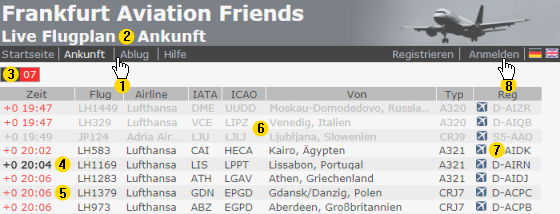
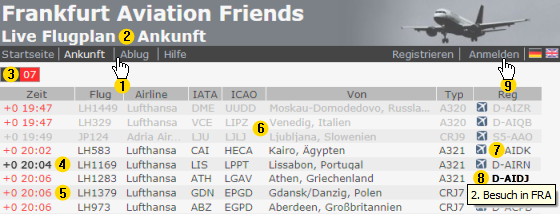
Added VTF to help page.

Changed region(s): [[0.8196, 0.785, 1.0, 0.9813], [0.8804, 0.3925, 0.9107, 0.4206]]

diff --git a/content/help-de.php b/content/help-de.php
@@ -39,7 +39,7 @@ $lang_help = array(
 	13 => '(5) Zeiten für verfrühte Flüge werden in rot angezeigt',
 	14 => '(6) Flüge in der Vergangenheit werden ausgegraut angezeigt',
 	15 => '(7) Flugzeugkennungen sind mit <a href="http://www.airliners.net">www.airliners.net</a> verlinkt (auf Symbol links davon klicken)',
-	16 => '(8) Registrieren/Anmelden, um die <span class="bi">Beobachtungsliste</span> nutzen zu können',
+	16 => '(9) Registrieren/Anmelden, um die <span class="bi">Beobachtungsliste</span> nutzen zu können',
 	17 => '(1) Besondere Flugzeuge können in grün hervorgehoben werden. Eine Liste davon  - inklusive einem Kommentar je Kennung - kann im Benutzerprofil gespeichert werden',
 	18 => '(2) Auf den Reiter oder den Link in der Navigationsleiste klicken, damit die Beobachtungsliste geöffnet wird. Diese Liste kann nach Belieben bearbeitet werden',
 	19 => '<span class="b">Um die Beobachtungsliste benutzen zu können, muß <span class="i"><a href="http://www.enable-javascript.com/de/">JavaScript aktiviert</a></span> sein.</span>',
@@ -49,13 +49,13 @@ $lang_help = array(
 	23 => '(3) Aktualisieren speichert aktuelle Listeneinträge',
 	24 => 'Im Tabellenkopf auf eine Spalte klicken, um nach dieser zu sortieren',
 	25 => 'Bei aktiver Beobachtungsliste (Anmelden erforderlich) werden die markierten Flugzeuge zuoberst sortiert',
-//	26 => 'Für die ordentliche Unterstützung mobiler Endgeräte gibt es noch einiges zu tun. Sorry. Unterstützung für spezielle Geräte/Browser kann jederzeit unter <a href="content/emil.php?subject=FRA-schedule%20Anfrage"><img alt="email" src="content/emil-img.php" style="vertical-align: bottom;"></a> angefragt</a> werden',
-	26 => 'Mobile devices are supported through a device detection script which interprets your device browser\'s user agent string. If your device is not recognized and want support for this specific device/browser, do not hestitate to contact me via	<a href="content/emil.php?subject=fra-schedule%20inquiry"><img alt="email" src="content/emil-img.php"></a>',
+	26 => 'Mobiler Endgeräte werden grundsätzlich unterstützt, hier gibt es allerdings noch einiges zu tun. Sorry. Unterstützung für spezielle Geräte/Browser kann jederzeit unter <a href="content/emil.php?subject=FRA-schedule%20Anfrage"><img alt="email" src="content/emil-img.php" style="vertical-align: bottom;"></a> angefragt</a> werden',
 	27 => 'Keine Software ist fehlerfrei. Diese Seite wurde getestet, so gut es innerhalb der Grenzen meiner Freizeit möglich war. Sollten trotzdem Probleme oder Fragen auftauchen, die über diese Hilfeseite hinausgehen, bitte Kontakt mit mir unter <a href="content/emil.php?subject=FRA-schedule%20Problem"><img alt="email" src="content/emil-img.php" style="vertical-align: bottom;"></a> aufnehmen',
 	28 => 'Concept and programming Tobias Kühne with the exception of the following',
 	29 => 'by',
 	30 => 'If you feel this site is violating licences of one of these projects, please contact',
 	31 => 'Due to limited display space on mobile phones, the following icons are used instead of text',
+	32 => '(8) Seltene Flugzeuge (Besuche in FRA < 10) werden in <span style="font-weight: bold">fetter</span> Schrift dargestellt',
 );
 
 ?>

diff --git a/content/help-en.php b/content/help-en.php
@@ -39,7 +39,7 @@ $lang_help = array(
 	13 => '(5) Premature flights are indicated by times in red',
 	14 => '(6) Flights in the past will be grayed out',
 	15 => '(7) Registrations are linked to <a href="http://www.airliners.net">www.airliners.net</a> (click on the icon to the left)',
-	16 => '(8) Register/Login to benefit from the <span class="bi">watchlist</span> feature',
+	16 => '(9) Register/Login to benefit from the <span class="bi">watchlist</span> feature',
 	17 => '(1) Let your favourite aircrafts be hilighted in green. A list thereof - including a comment per aircraft - will be stored within your user profile',
 	18 => '(2) Click onto the watchlist tab or the link in the navigation area to let it slide into view. This list can be edited as you wish',
 	19 => '<span class="b">The watchlist feature requires <span class="i"><a href="http://www.enable-javascript.com/">JavaScript to be enabled</a></span>.</span>',
@@ -55,6 +55,7 @@ $lang_help = array(
 	29 => 'by',
 	30 => 'If you feel this site is violating licences of one of these projects, please contact me:',
 	31 => 'Due to limited display space on mobile phones, the following icons are used instead of text',
+	32 => '(8) Rare aircrafts (i.e. visits to FRA < 10) are display in <span style="font-weight: bold">bold</span> font',
 );
 
 ?>

diff --git a/content/help.php b/content/help.php
@@ -55,6 +55,7 @@ include("help-$_SESSION[lang].php");
 			<li><?php echo $lang_help[13]; ?>.
 			<li><?php echo $lang_help[14]; ?>.
 			<li><?php echo $lang_help[15]; ?>.
+			<li><?php echo $lang_help[32]; ?>.
 			<li><?php echo $lang_help[16]; ?>.
 			<li class="img">
 				<img src="content/img/<?php echo $_SESSION['lang']; ?>/1-basic.png">
